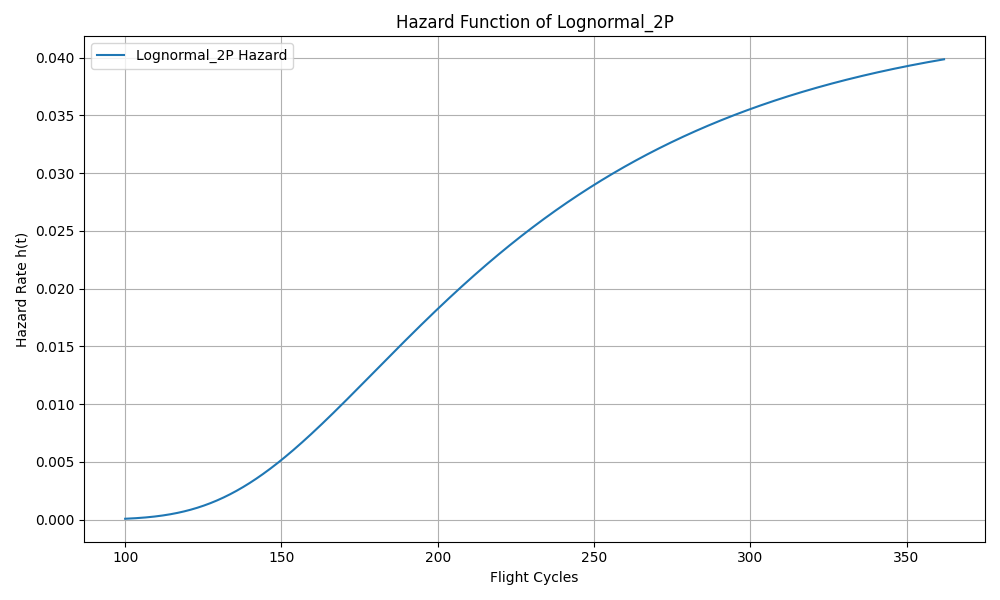
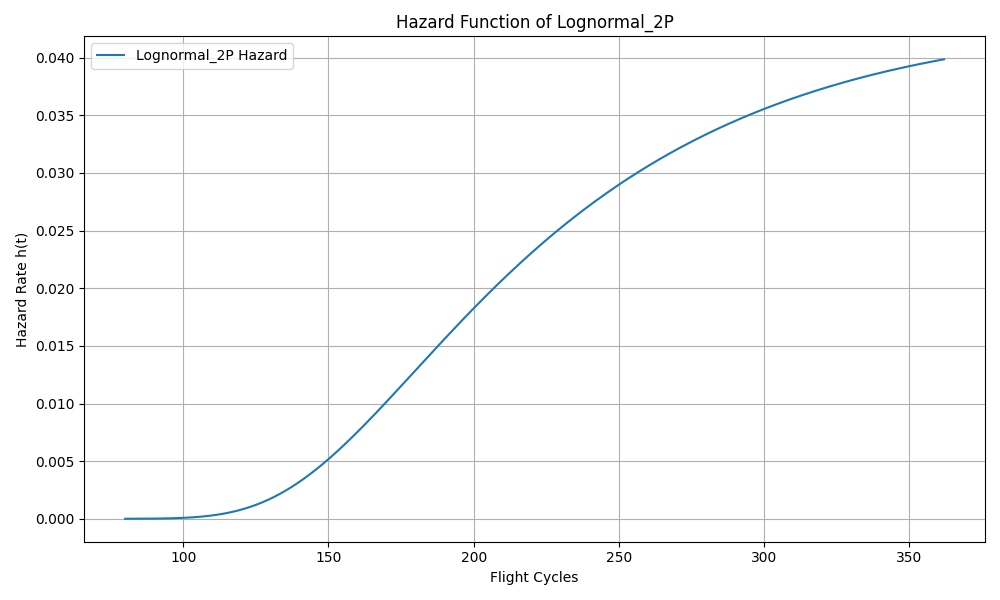
part 2 file schoonmaken zodat die allen de opacity en sensor plots print. comments bij de andere files zetten

diff --git a/part2.py b/part2.py
@@ -8,49 +8,43 @@ from sklearn.model_selection import train_test_split
 from sklearn.tree import DecisionTreeRegressor
 from sklearn.metrics import mean_squared_error, mean_absolute_error
 
-
+# In the end this file only does the data preprocessing and visualization of how the sensors behave
 
 lifetimes = df_train.groupby("engine")["cycle"].max().values
-# print(f"lifetimes in train set: {lifetimes}")
-
-
-
+print(f"lifetimes in train set: {lifetimes}")
 
 engine_1_df = df_train[df_train['engine'] == 1]
 
-# Drop index columns to get only sensor and operational data
 sensor_data = engine_1_df.drop(columns=['engine', 'cycle'])
 sensor_data.index = engine_1_df['cycle']
 sensor_data.plot(subplots=True, figsize=(15, 25), layout=(6, 4), title='Sensor and operational data for Engine 1')
 plt.tight_layout()
-# plt.show()
+plt.show()
 
-# def plot_sensor_opacity(df, sensors, cycle_col='cycle', engine_col='engine', alpha=0.1):
-#     """
-#     Overlays each engine's sensor data as a transparent line for all sensors.
-#     """
-#     plt.figure(figsize=(18, 25))
+def plot_sensor_opacity(df, sensors, cycle_col='cycle', engine_col='engine', alpha=0.1):
+
+    plt.figure(figsize=(18, 25))
     
-#     for i, sensor in enumerate(sensors):
-#         plt.subplot(6, 4, i + 1)
+    for i, sensor in enumerate(sensors):
+        plt.subplot(6, 4, i + 1)
         
-#         for engine_id in df[engine_col].unique():
-#             eng_data = df[df[engine_col] == engine_id]
-#             plt.plot(eng_data[cycle_col], eng_data[sensor], alpha=alpha)
+        for engine_id in df[engine_col].unique():
+            eng_data = df[df[engine_col] == engine_id]
+            plt.plot(eng_data[cycle_col], eng_data[sensor], alpha=alpha)
         
-#         plt.title(sensor)
-#         plt.xlabel('Cycle')
-#         plt.ylabel('Sensor reading')
-#         plt.grid(True)
+        plt.title(sensor)
+        plt.xlabel('Cycle')
+        plt.ylabel('Sensor reading')
+        plt.grid(True)
     
-#     plt.tight_layout()
-#     plt.suptitle("Opacity Curves for All Engines (each line = 1 engine)", fontsize=18, y=1.02)
-#     plt.show()
+    plt.tight_layout()
+    plt.suptitle("Opacity Curves for All Engines (each line = 1 engine)", fontsize=18, y=1.02)
+    plt.show()
 
-sensor_cols = [col for col in df_train.columns if col not in ['engine', 'cycle']]  # drop non-sensor columns if needed
-# plot_sensor_opacity(df_train, sensors=sensor_cols, alpha=0.1)
+sensor_cols = [col for col in df_train.columns if col not in ['engine', 'cycle']] 
+plot_sensor_opacity(df_train, sensors=sensor_cols, alpha=0.1)
 
-df_train = df_train.drop(columns=['altitude','TRA','mach_nr', 'T2','P2','P15','epr','farB','Nf_dmd','PCNfR_dmd'])  # drop non-sensor columns if needed
+df_train = df_train.drop(columns=['altitude','TRA','mach_nr', 'T2','P2','P15','epr','farB','Nf_dmd','PCNfR_dmd'])  
 print(df_train.columns)
 
 df_train['max_cycle'] = df_train.groupby('engine')['cycle'].transform('max')
@@ -58,37 +52,11 @@ df_train['RUL'] = df_train['max_cycle'] - df_train['cycle']
 df_train['RUL'] = df_train['RUL'].clip(upper=125)
 df_train.drop(columns='max_cycle', inplace=True)
 
-X = df_train
-Y = df_train['RUL']
-
+# the featured columns used for training the model
 feature_cols = [
     'T24', 'T30', 'T50',
     'P30',
     'Nf', 'Nc', 'Ps30', 'phi',
     'NRf', 'NRc', 'BPR',
     'htBleed',
-    'W31', 'W32'
-]
-
-X_train = df_train[df_train['engine'][feature_cols]]
-y_train = df_train[df_train['engine']['RUL']]
-
-X_val = df_test[df_test['engine'][feature_cols]]
-y_val = pd.read_csv('CMAPSSData/RUL_FD001.txt')
-
-from sklearn.tree import DecisionTreeRegressor
-
-dt = DecisionTreeRegressor(max_depth=10, random_state=42)
-dt.fit(X_train, y_train)
-
-plt.figure(figsize=(10, 6))
-plt.scatter(y_val, dt.predict(X_val), label='Decision Tree', alpha=0.5)
-# plt.scatter(y_val, rf.predict(X_val), label='Random Forest', alpha=0.5)
-# plt.scatter(y_val, xgb.predict(X_val), label='XGBoost', alpha=0.5)
-plt.plot([0, 150], [0, 150], 'k--')
-plt.xlabel("True RUL")
-# plt.ylabel("Predicted RUL")
-# plt.title("Predicted vs True RUL")
-plt.legend()
-plt.grid(True)
-plt.show()
+    'W31', 'W32']

diff --git a/main.py b/main.py
@@ -6,7 +6,7 @@ from reliability.Distributions import Weibull_Distribution, Exponential_Distribu
 from import_data import df_train
 
 
-#lifetimes uit de training data halen
+# lifetimes uit de training data halen
 # distributions fitten op de lifetimes
 
 lifetimes = df_train.groupby("engine")["cycle"].max().values
@@ -90,7 +90,8 @@ elif best_fit_name == "Normal_2P":
     best_dist = Normal_Distribution(mu=best_fit.mu, sigma=best_fit.sigma)
 
 # hazard functie iets eerder berekenen dan bij de histogram
-x = np.linspace(100, max(lifetimes), 1000)
+# dan kan je het vlak deel nog zien 
+x = np.linspace(80, max(lifetimes), 1000)
 pdf_vals = best_dist.PDF(x)
 sf_vals = best_dist.SF(x) # SF = 1-F(x)
 hazard_vals =  pdf_vals / sf_vals

diff --git a/Alle models.py b/Alle models.py
@@ -116,6 +116,11 @@ mae_xg = mean_absolute_error(y_test, xg_pred)
 r2_xg = r2_score(y_test, xg_pred)
 print(f'XGBoost - RMSE: {rmse_xg}, MAE: {mae_xg}, R2: {r2_xg}')
 
+
+####################
+# Data visualization
+####################
+
 results = pd.DataFrame({
     'True RUL': y_test,
     'Predicted RUL DT': dt_pred,
